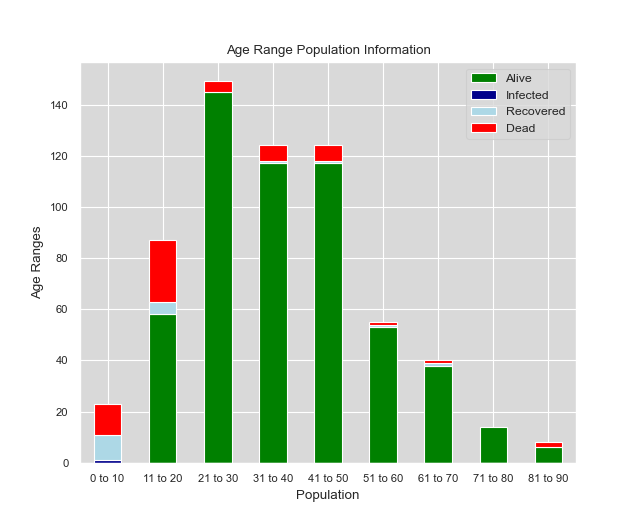
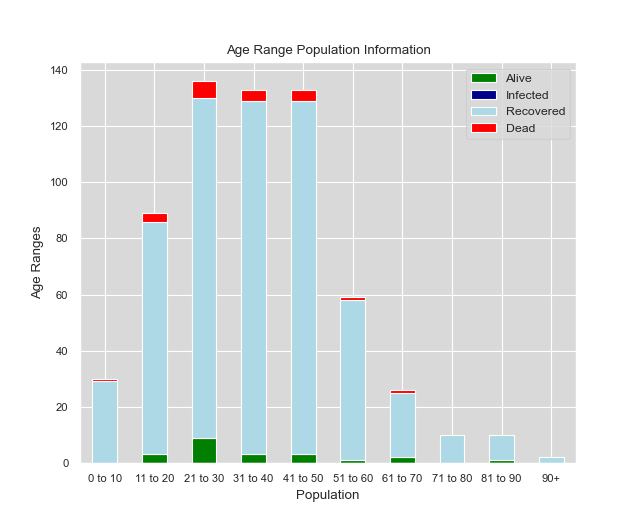
Final Final postsim commit

diff --git a/postsim/plotgen.py b/postsim/plotgen.py
@@ -56,7 +56,8 @@ class plotgen:
                   "51 to 60",
                   "61 to 70",
                   "71 to 80",
-                  "81 to 90"]
+                  "81 to 90",
+                  "90+"]
 
         alive_bar = list()
         infected_bar = list()
@@ -68,12 +69,6 @@ class plotgen:
             infected_bar.append(frame[frame.status == "Infected"].shape[0])
             dead_bar.append(frame[frame.status == "Dead"].shape[0])
             recovered_bar.append(frame[frame.status == "Recovered"].shape[0])
-
-        print(str(x_axis))
-        print(str(alive_bar))
-        print(str(infected_bar))
-        print(str(recovered_bar))
-        print(str(dead_bar))
 
         plotdf = pd.DataFrame({'Range': x_axis,
                                'Alive': alive_bar,
